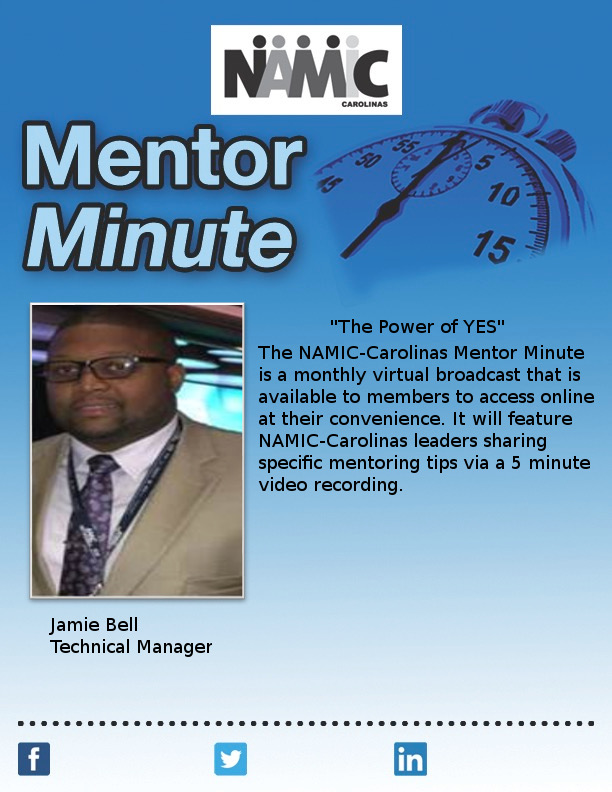
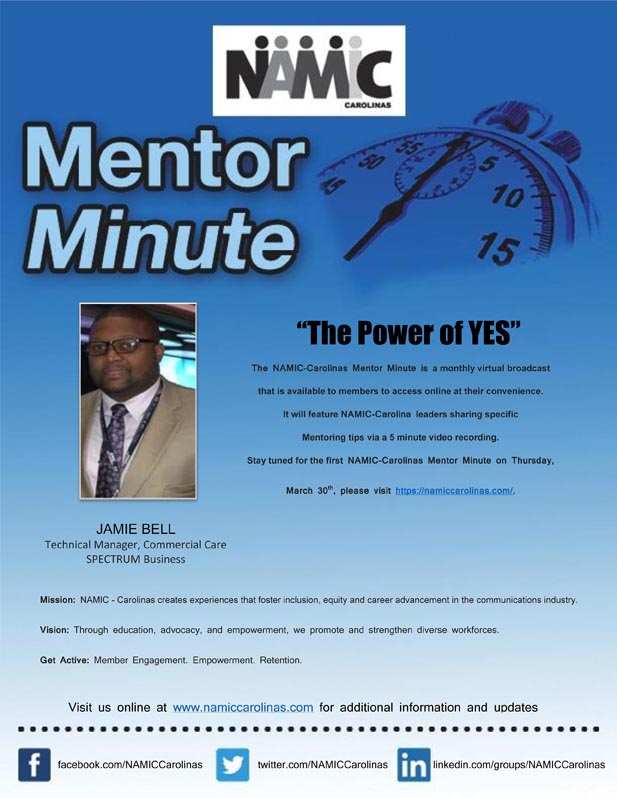
adding mentor minute to namic page

Changed region(s): [[0.0, 0.0, 1.0, 0.8485], [0.031, 0.8788, 0.9935, 1.0], [0.5899, 0.0606, 0.6209, 0.0909]]

diff --git a/resources/views/main/mentor.blade.php b/resources/views/main/mentor.blade.php
@@ -1,0 +1,27 @@
+@extends('layouts.base')
+@section('title')
+    NAMIC-Carolinas - Unplugged
+@endsection
+@section(('content'))
+    <div id="container">
+        <div class="panel panel-primary">
+            <div class="panel-heading">Mentor Minute</div>
+            <div class="panel-body">
+                <ul class="list-group">
+                    <li class="list-group-item">
+                        <span class="pull-right">
+                            <a target="_blank" href="{{URL::to("https://www.dropbox.com/s/hcc4n13i5mn3oy3/Mentor%20Minute%20with%20Jamie%20Bell%20Low.mp4?dl=0")}}">
+                                <button type="button" class="btn btn-primary btn-xs">Click to View</button></a>
+                        </span>
+
+
+                        March 2017
+                    </li>
+
+                </ul>
+
+            </div>
+
+        </div>
+    </div>
+@endsection

diff --git a/resources/views/layouts/nav.blade.php b/resources/views/layouts/nav.blade.php
@@ -16,6 +16,8 @@
             </li>
             <li style="z-index:76;" id="nav_membership"  ><a class="@if (Request::path() === 'membership') selected @endif" href="{{ URL::to('membership') }}" target="_self"><span></span>Membership</a>
             </li>
+            <li style="z-index:76;" id="nav_mentor"  ><a class="@if (Request::path() === 'mentor') selected @endif" href="{{ URL::to('mentor') }}" target="_self"><span></span>Mentor Minute</a>
+            </li>
             <li style="z-index:75;" id="nav_scholarships"  ><a class="@if (Request::path() === 'scholarships') selected @endif" href="{{ URL::to('scholarships') }}" target="_self"><span></span>Scholarships</a>
             </li>
             <li style="z-index:74;" id="nav_event-photos"  ><a class="@if (Request::path() === 'photos') selected @endif" href="{{ URL::to('event-photos') }}" target="_self"><span></span>Event Photos</a>

diff --git a/app/Http/routes.php b/app/Http/routes.php
@@ -21,6 +21,7 @@ Route::group(array('before' => 'guest'), function () {
     Route::get('unplugged', ['as' => 'unplugged','uses' => 'MainController@unplugged']);
     Route::get('issue-1', ['as' => 'issue-1','uses' => 'MainController@issue1']);
     Route::get('membership', ['as' => 'membership','uses' => 'MainController@membership']);
+    Route::get('mentor', ['as' => 'mentor','uses' => 'MainController@mentor']);
     Route::get('scholarships', ['as' => 'scholarships','uses' => 'MainController@scholarships']);
     Route::get('epic-nominations', ['as' => 'nomination', 'uses' => 'NominationController@closed']);
     Route::post('nomination', ['as' => 'nomination', 'uses' => 'NominationController@store']);

diff --git a/resources/views/main/index.blade.php b/resources/views/main/index.blade.php
@@ -62,14 +62,6 @@
                     </div>
                 </div>
 
-                <div class="block heading" data-type="heading" data-title="heading" data-id="12">
-                    <h3>
-                        <div class='h3' style='text-align:left;'>
-                            Mentor Minute
-
-                        </div>
-                    </h3>
-                </div>
 
                 <div class="block imagetext" data-type="imagetext" data-title="imagetext" data-id="3">
                     <div class="media">

diff --git a/app/Http/Controllers/MainController.php b/app/Http/Controllers/MainController.php
@@ -66,6 +66,11 @@ class MainController extends Controller
         return view('main.membership');
     }
 
+    public function mentor()
+    {
+        return view('main.mentor');
+    }
+
     public function scholarships()
     {
         return view('main.scholarships');
